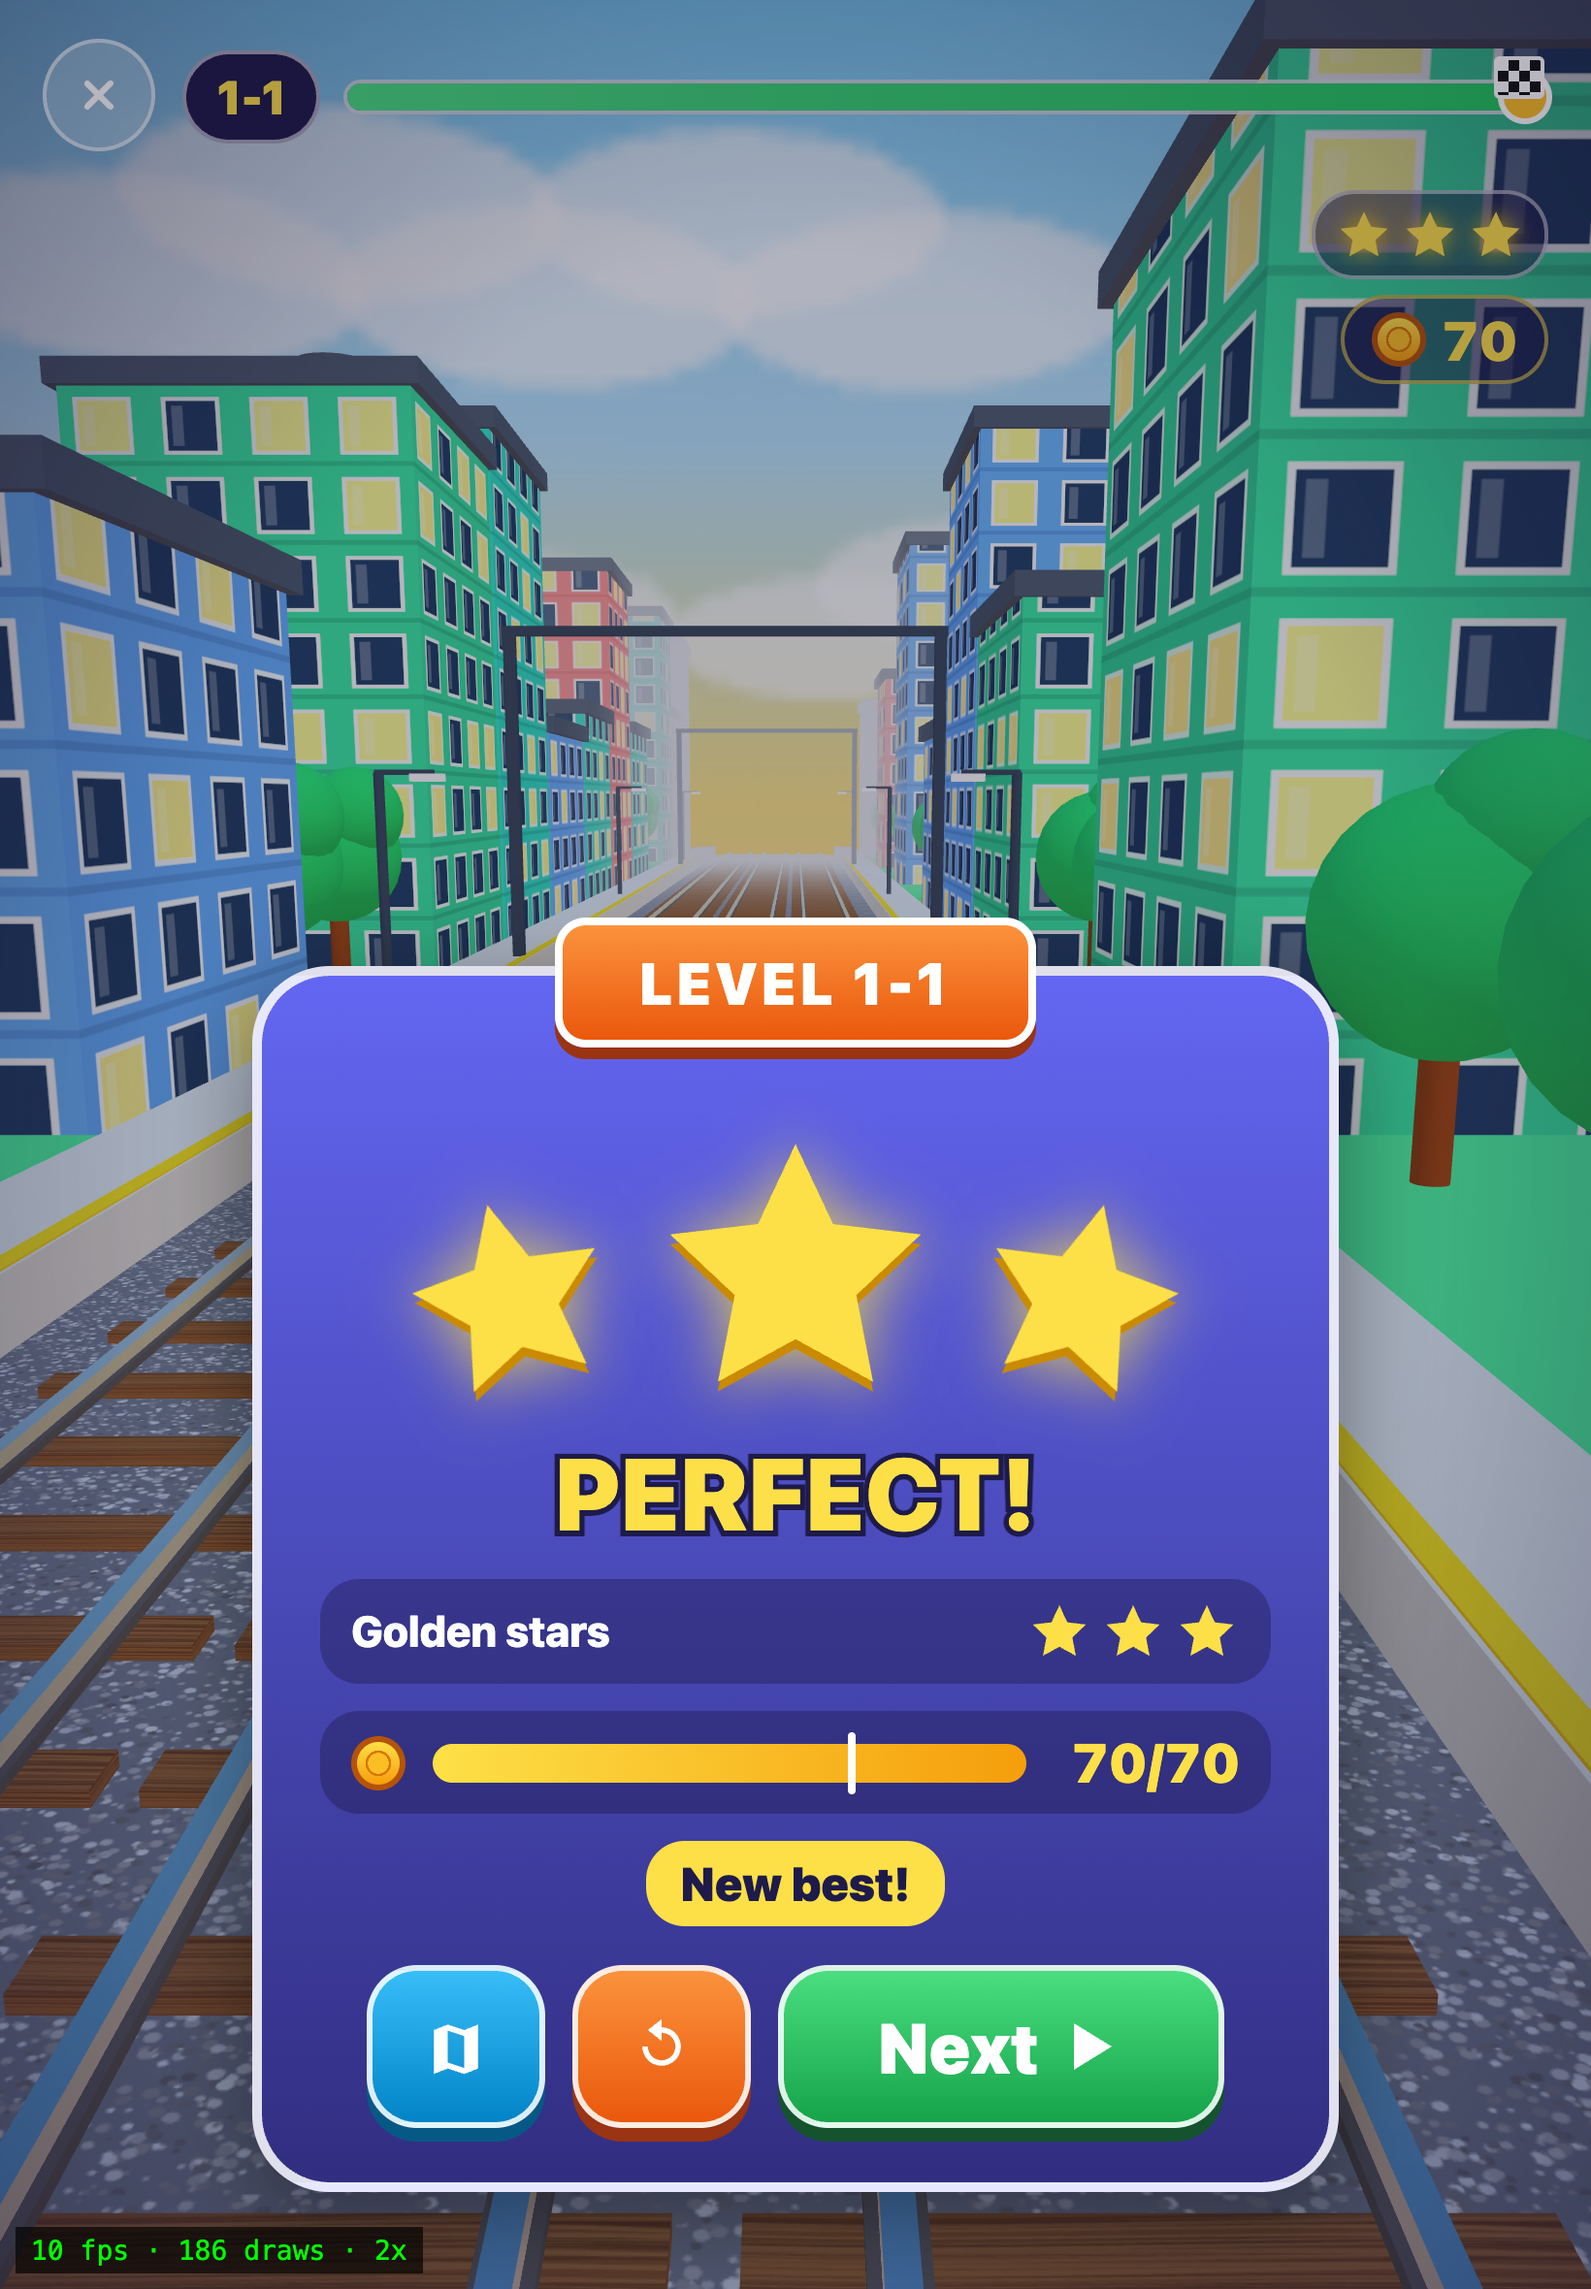
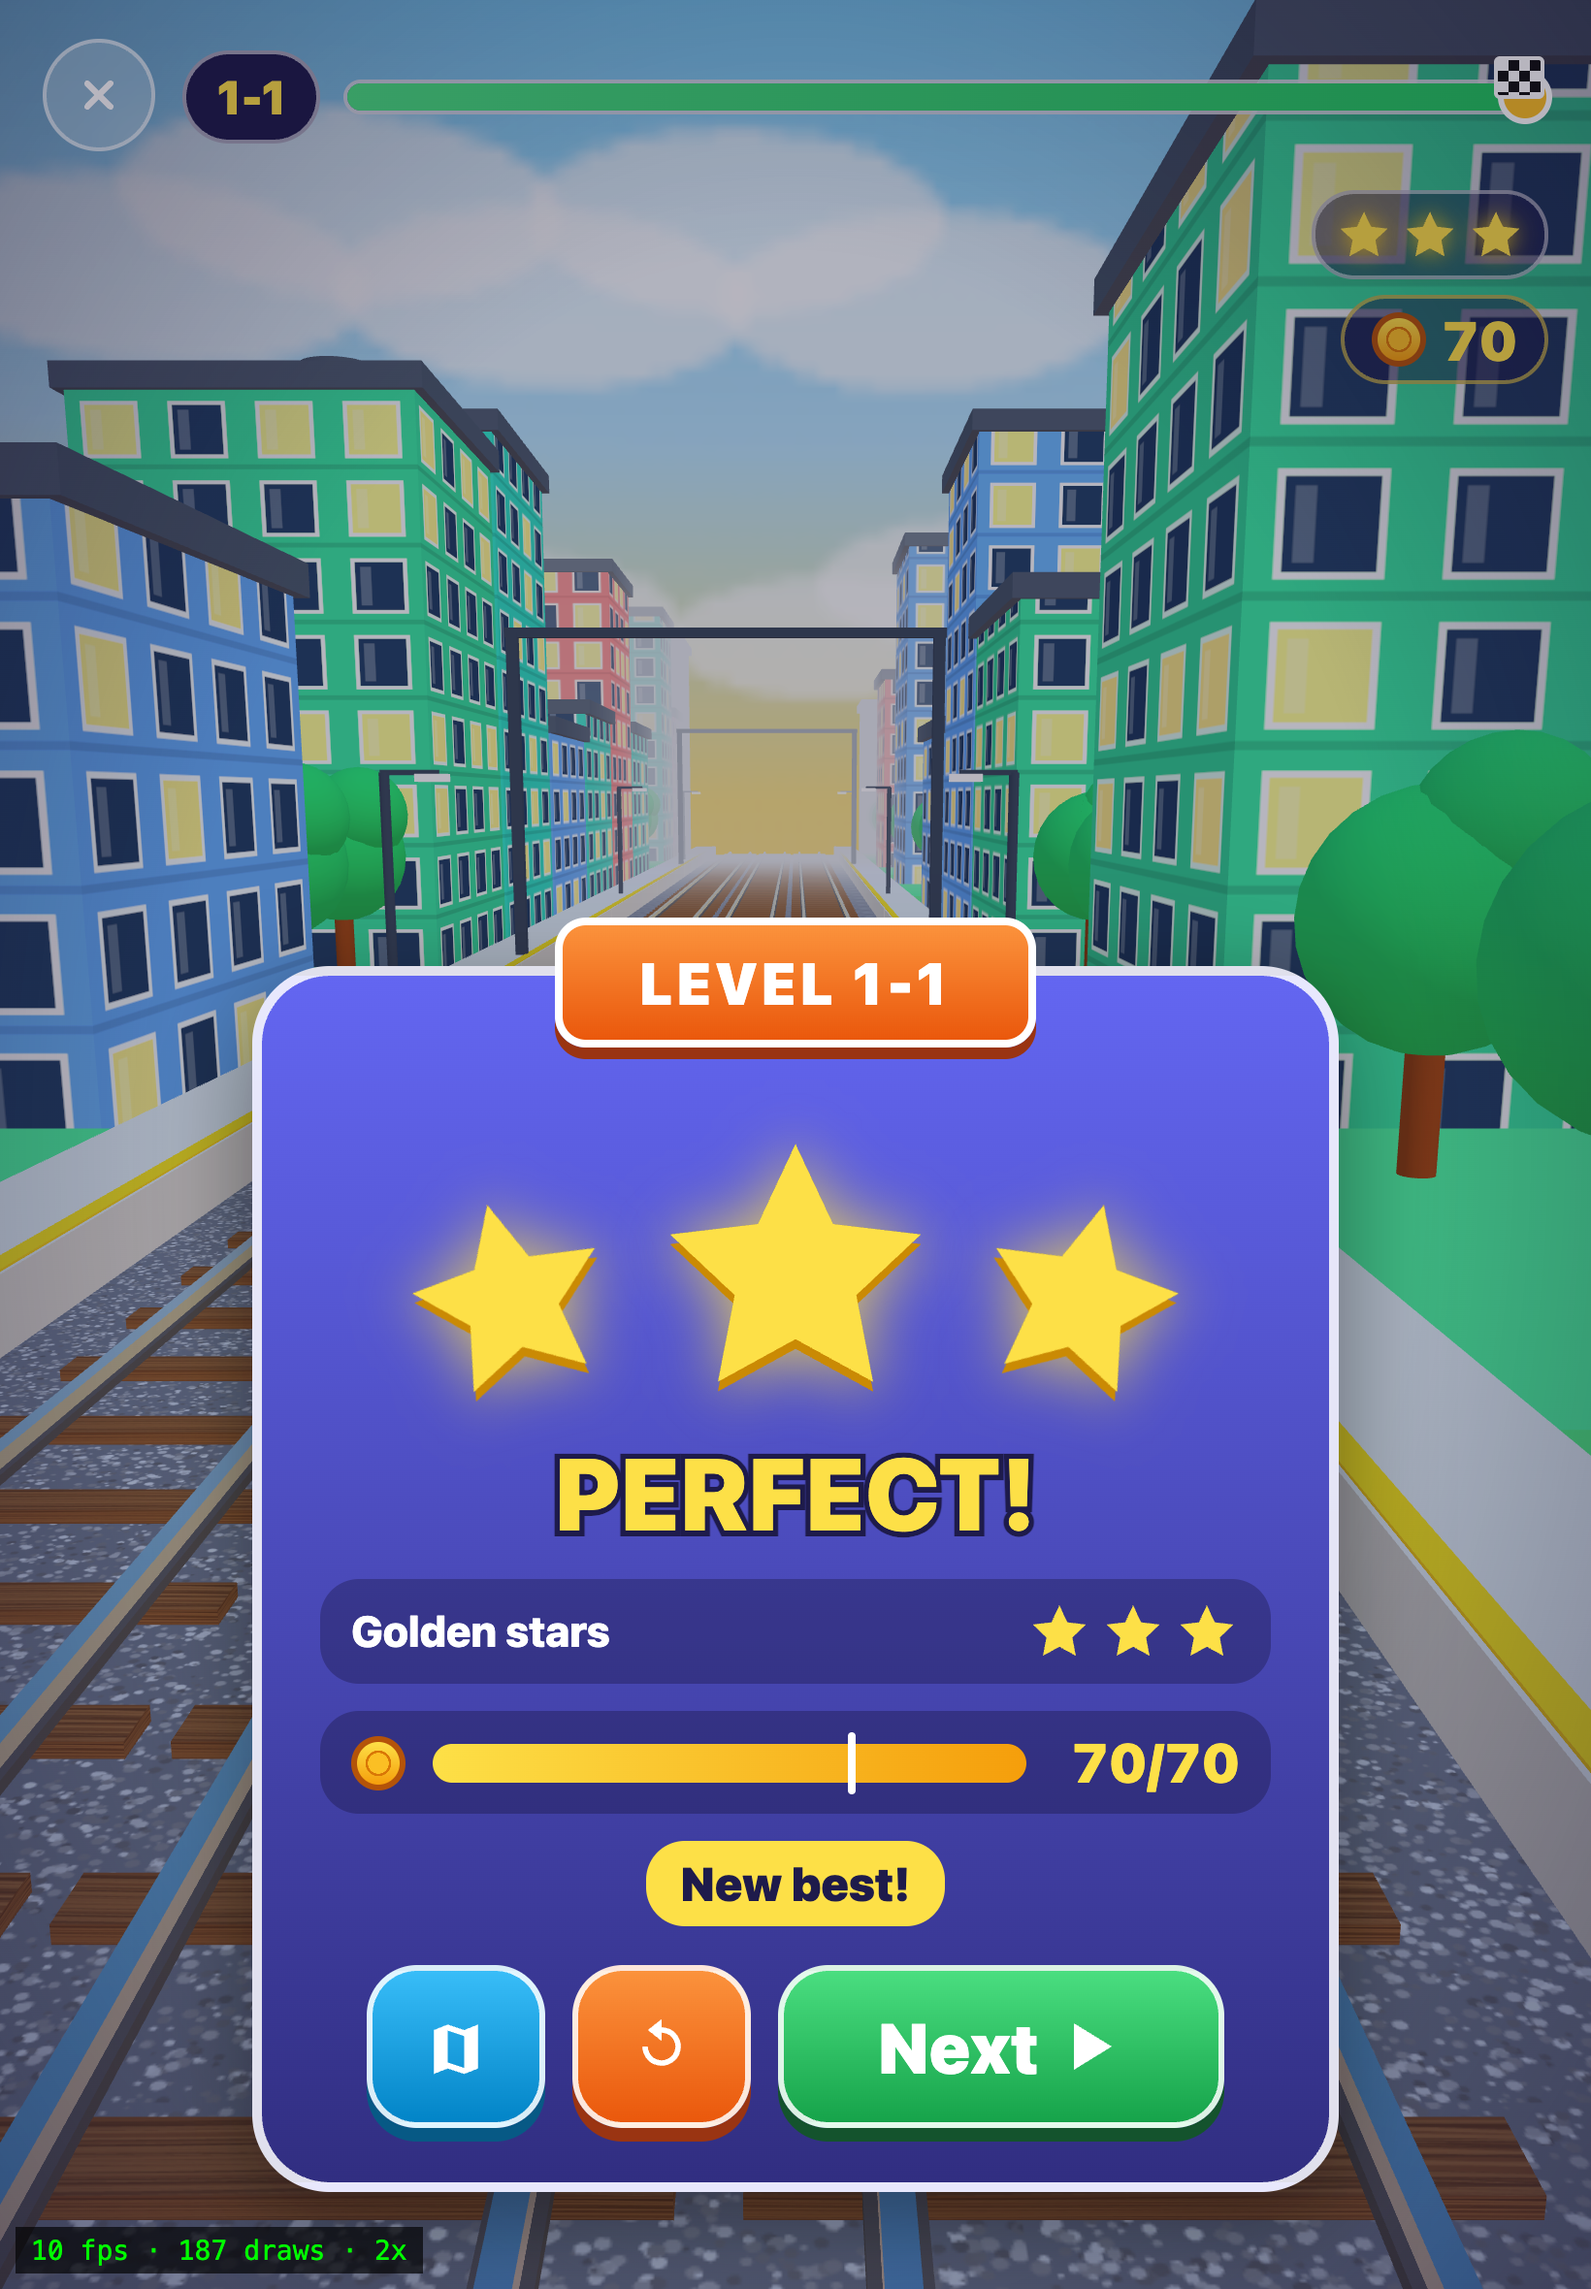
fix(web): keep the current map node and its GO! bubble above the next level

diff --git a/web/src/style.css b/web/src/style.css
@@ -94,7 +94,7 @@ svg { width: 1em; height: 1em; fill: currentColor; }
 .node.boss { width: 100px; height: 100px; margin: -50px 0 0 -50px; border-color: #fde047; font-size: 40px; }
 .node.locked { background: #cbd5e1; color: #64748b; border-color: #e2e8f0; text-shadow: none; box-shadow: 0 4px 0 rgba(0, 0, 0, 0.15); }
 .node.locked svg { width: 32px; height: 32px; }
-.node.now { width: 100px; height: 100px; margin: -50px 0 0 -50px; border-color: #fde047; animation: pulse 1.4s ease-in-out infinite;
+.node.now { width: 100px; height: 100px; margin: -50px 0 0 -50px; border-color: #fde047; animation: pulse 1.4s ease-in-out infinite; z-index: 2;
   box-shadow: 0 0 0 10px rgba(253, 224, 71, 0.45), 0 6px 0 rgba(0, 0, 0, 0.25); }
 .node .go { position: absolute; bottom: 92px; padding: 6px 14px; border-radius: 16px; background: #fde047; color: var(--ink);
   font-size: 22px; text-shadow: none; border: 3px solid #fff; box-shadow: 0 4px 0 rgba(0, 0, 0, 0.2); }
